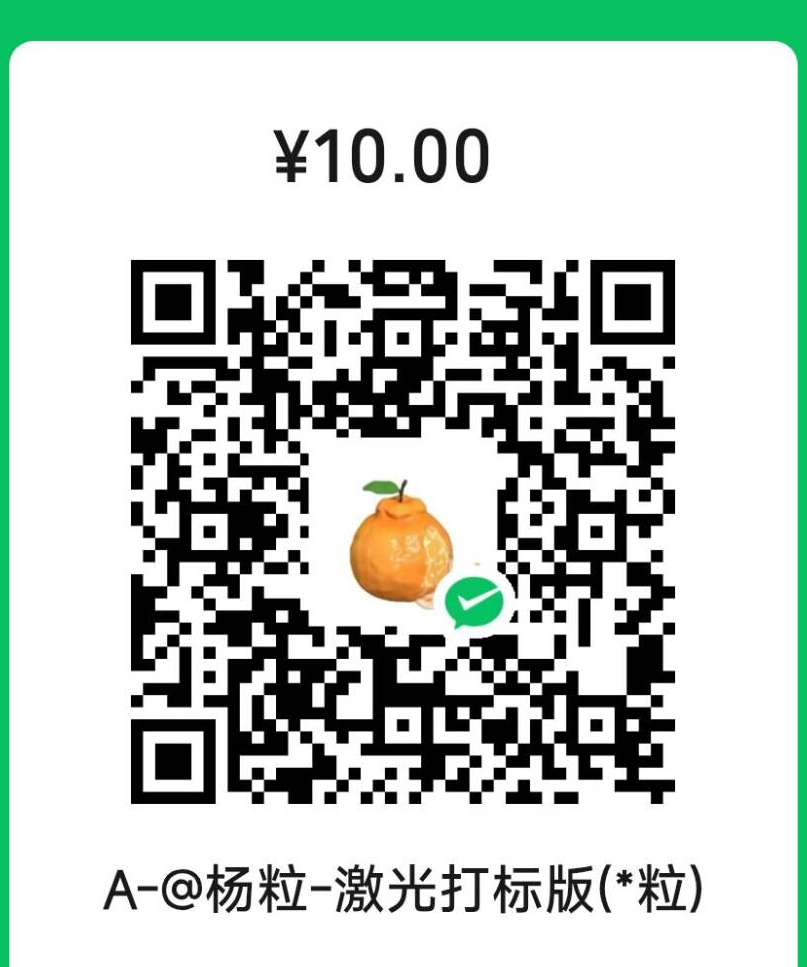
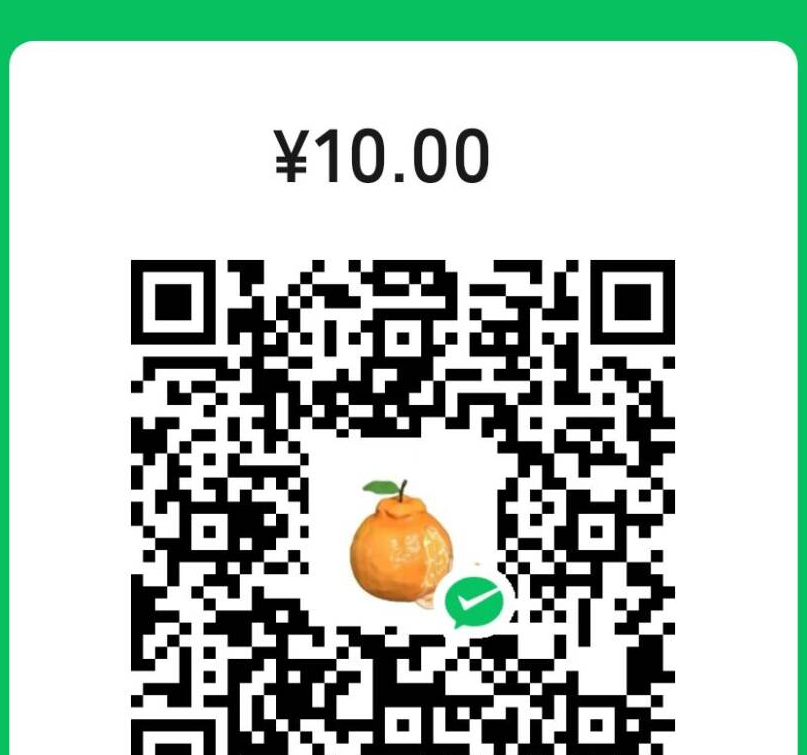
投喂弹窗改为进站自动弹出，裁掉收款码上的名字

diff --git a/index.html b/index.html
@@ -429,13 +429,15 @@ renderList();
   var qr = document.getElementById('tipqr');
   var qrtip = document.getElementById('qrtip');
   var go = document.getElementById('tipgo');
-  document.getElementById('btn4').onclick = function(){ mask.classList.add('show'); };
-  go.onclick = function(){
-    if(qr.complete && qr.naturalWidth){ qr.classList.add('show'); qrtip.classList.add('show'); go.style.display='none'; }
-    else { alert('收款码还没放上去'); }
-  };
+  function openTip(){
+    if(qr.complete && qr.naturalWidth){ qr.classList.add('show'); qrtip.classList.add('show'); }
+    if(go) go.style.display = 'none';
+    mask.classList.add('show');
+  }
+  document.getElementById('btn4').onclick = openTip;
   document.getElementById('tipno').onclick = function(){ mask.classList.remove('show'); };
   mask.onclick = function(ev){ if(ev.target === mask) mask.classList.remove('show'); };
+  setTimeout(openTip, 600);
 })();
 </script>
 </body>
